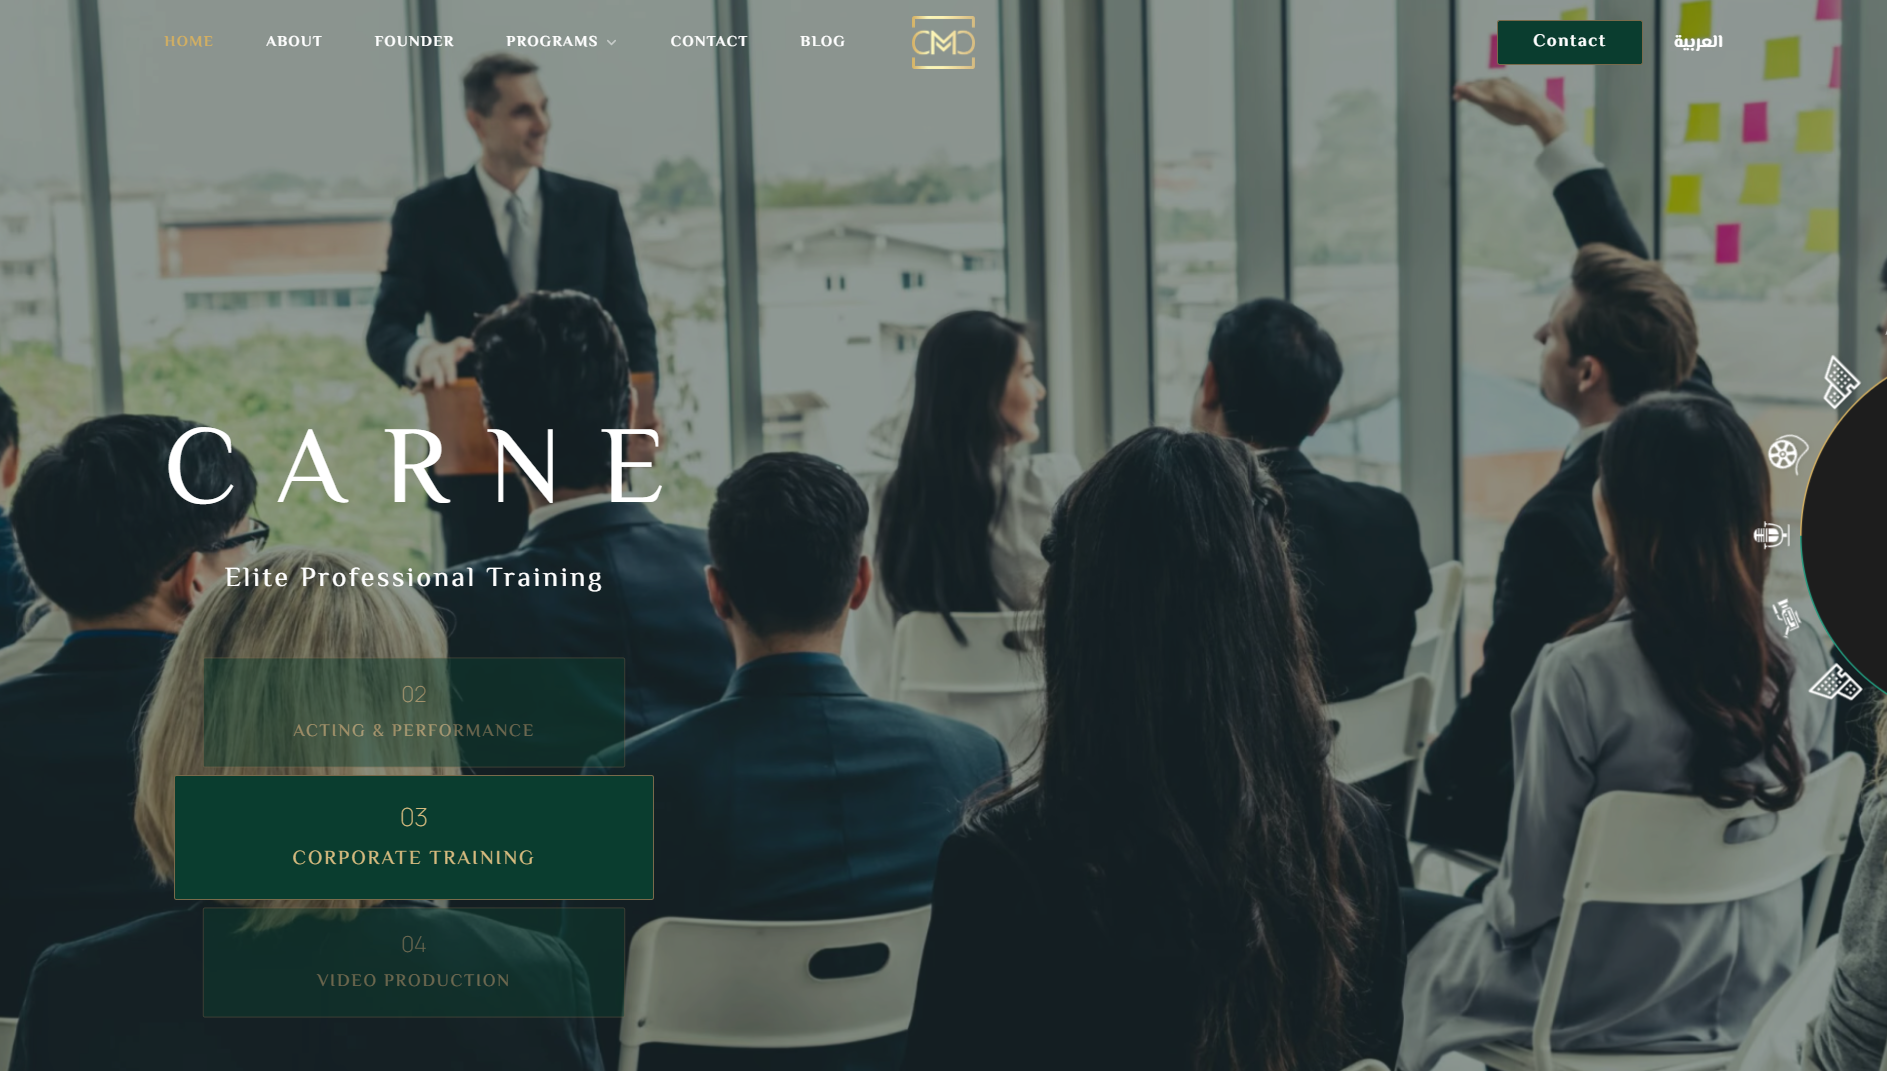
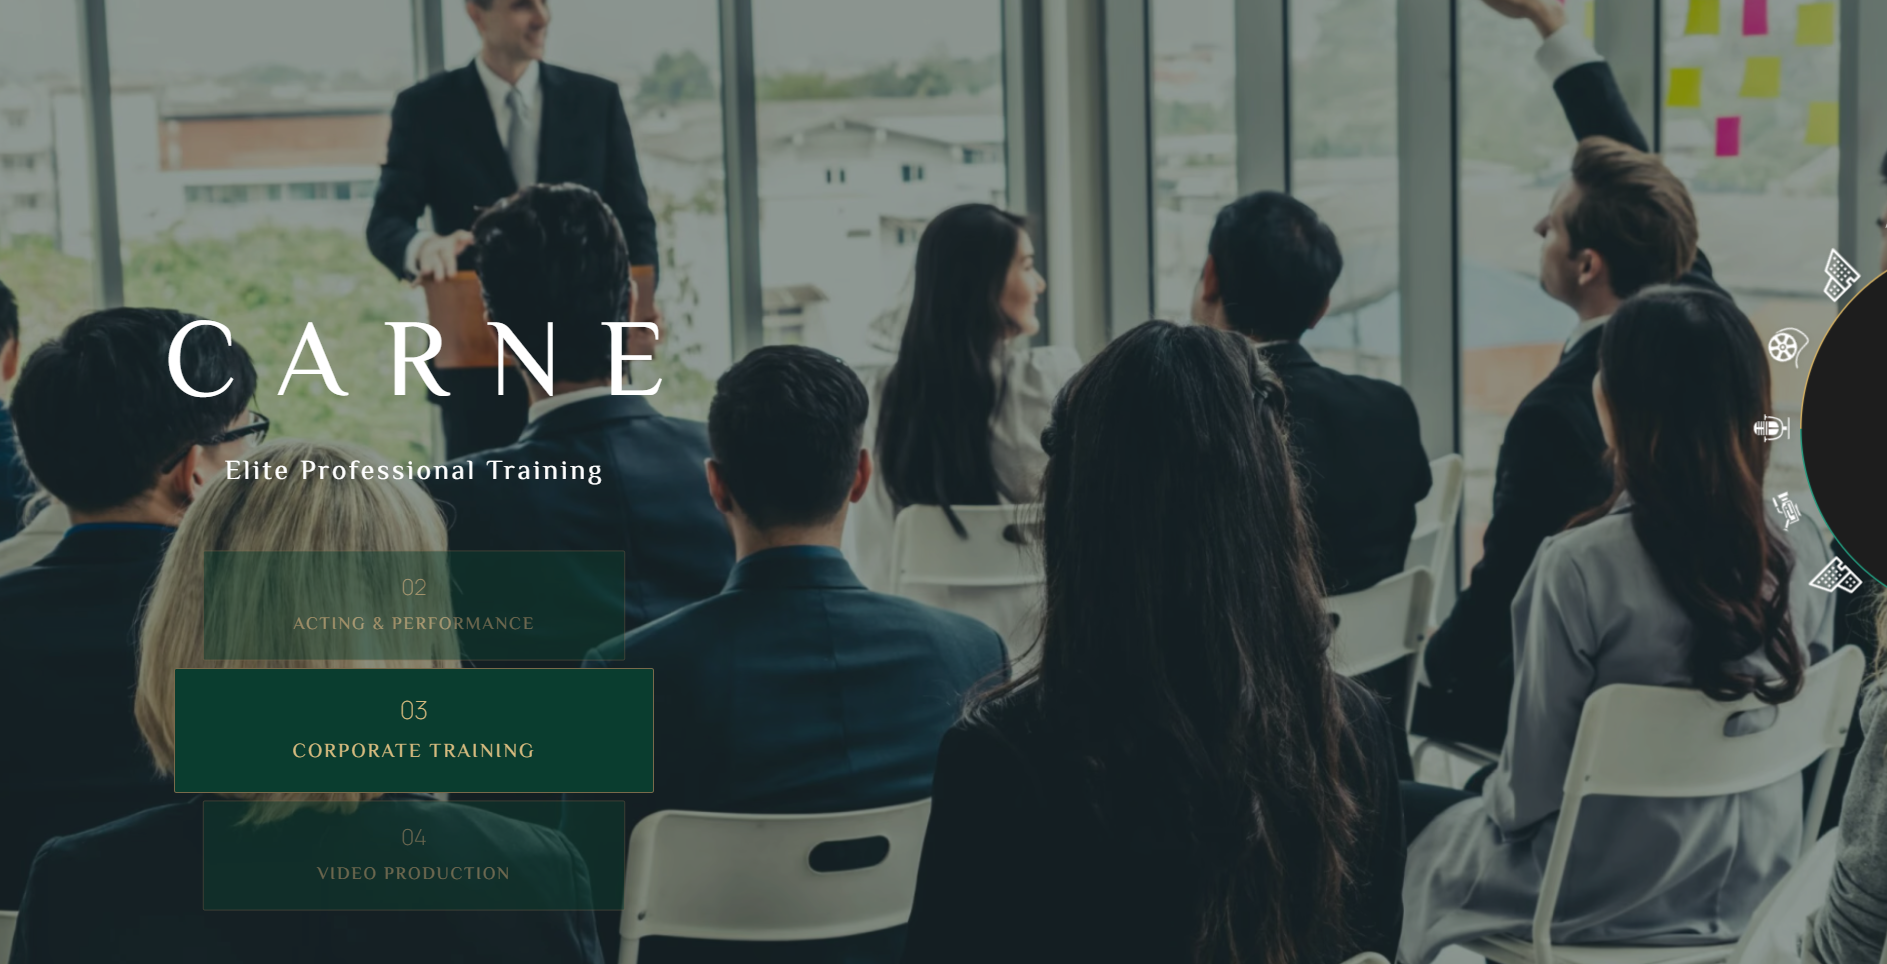
Old Projects

diff --git a/src/components/sections/projects-section.tsx b/src/components/sections/projects-section.tsx
@@ -14,6 +14,29 @@ const highlights = [
     "Fully documented — bilingual user guide and in-app developer guide for contributors",
 ] as const;
 
+const oldProjects = [
+    {
+        name: "Carne Media Training Center",
+        url: "https://carnemedia.ae/en",
+        src: "/carne.png",
+    },
+    {
+        name: "American Aesthetic Medical Center",
+        url: "https://americanaestheticmc.com",
+        src: "/american.webp",
+    },
+    {
+        name: "Arya Clinic",
+        url: "https://aryaclinic.ae",
+        src: "/arya.webp",
+    },
+    {
+        name: "Abd-Albaset Bali Architecture",
+        url: "https://www.designerab.com/",
+        src: "/architect.webp",
+    },
+] as const;
+
 export default function ProjectsSection() {
     return (
         <section id="projects" className="section pt-0!">
@@ -37,7 +60,6 @@ export default function ProjectsSection() {
                     className="mt-10 space-y-6"
                 >
                     <Image
-                        // src="/Screenshot 2026-07-11 030728.png"
                         src="/dashboards.png"
                         alt="Multi-Business Analytics Dashboard"
                         width={1200}
@@ -72,6 +94,40 @@ export default function ProjectsSection() {
                         View on GitHub
                     </a>
                 </motion.article>
+
+                <div className="grid grid-cols-4 gap-4 border-t pt-10 mt-10">
+                    {oldProjects.map((project) => (
+                        <div key={project.src} className="group relative">
+                            <Image
+                                src={project.src}
+                                alt={project.name}
+                                width={1200}
+                                height={600}
+                                className="w-full max-h-[80px] rounded-[2px] object-cover grayscale"
+                            />
+                            <div
+                                className="pointer-events-none absolute bottom-full left-1/2 z-10 w-max max-w-[300px] -translate-x-1/2 pb-3 opacity-0 transition-opacity duration-700 delay-100 group-hover:pointer-events-auto group-hover:opacity-100 group-hover:duration-150 group-hover:delay-0 group-focus-within:pointer-events-auto group-focus-within:opacity-100 group-focus-within:duration-150 group-focus-within:delay-0"
+                            >
+                                <div
+                                    role="tooltip"
+                                    className="rounded-[2px] border border-border bg-background px-5 py-4 shadow-sm"
+                                >
+                                    <p className="text-base font-medium text-foreground">
+                                        {project.name}
+                                    </p>
+                                    <a
+                                        href={project.url}
+                                        target="_blank"
+                                        rel="noopener noreferrer"
+                                        className="mt-1 block truncate text-sm text-accent underline-offset-2 hover:underline"
+                                    >
+                                        {project.url.replace(/^https?:\/\//, "")}
+                                    </a>
+                                </div>
+                            </div>
+                        </div>
+                    ))}
+                </div>
             </div>
         </section>
     );
